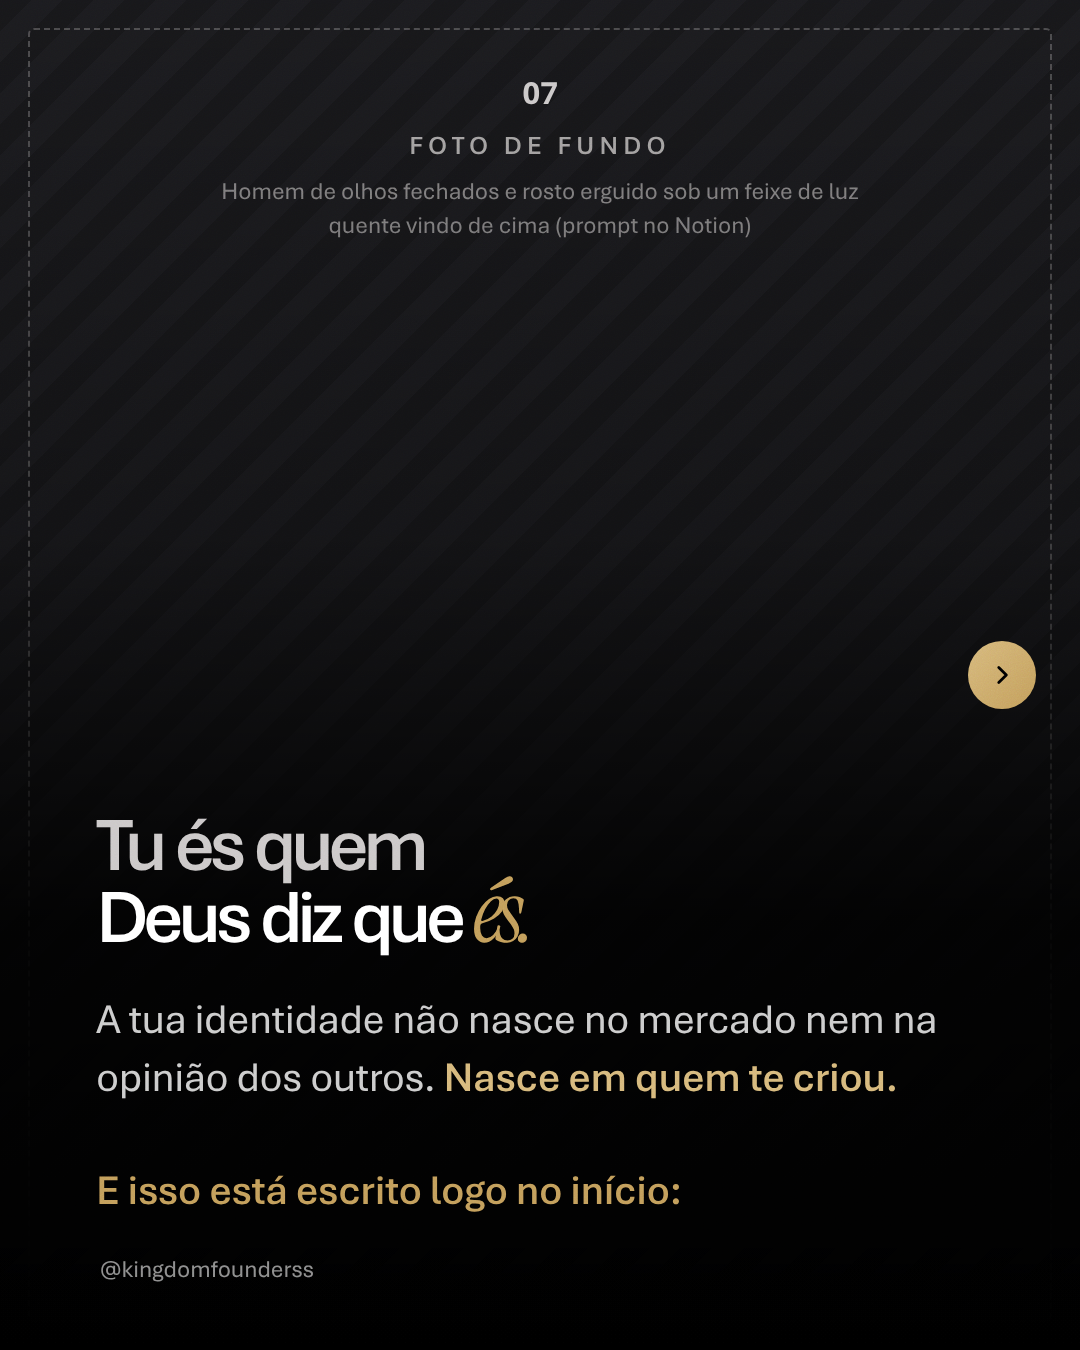
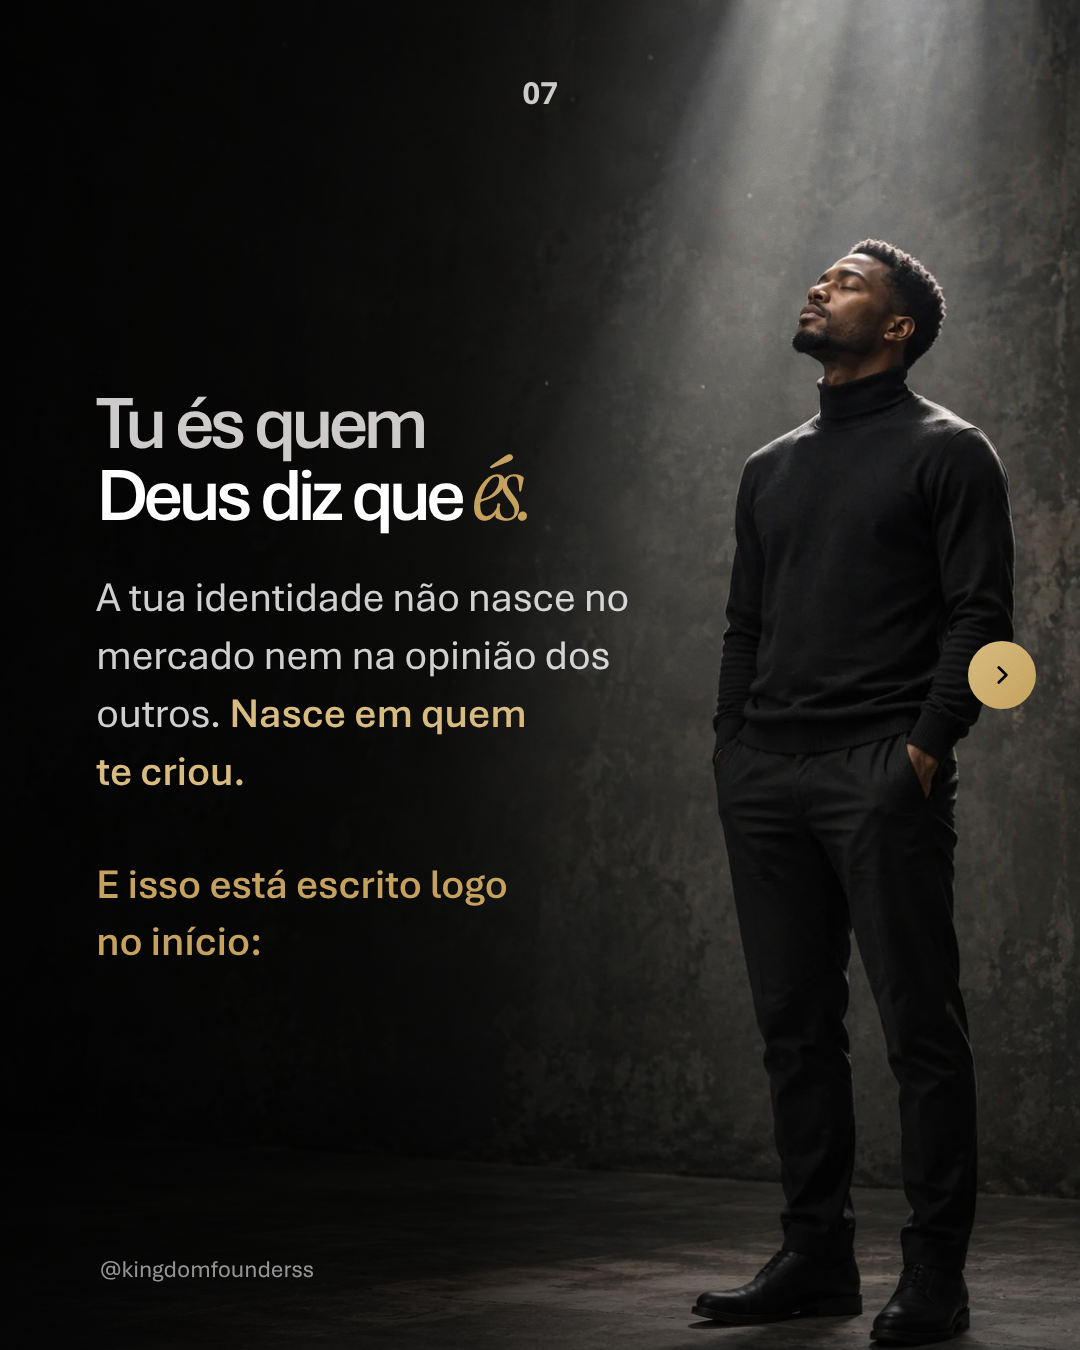
19/10: fotos do ChatGPT nos slides 04, 07 e 10
Claude-Session: https://claude.ai/code/session_01RgmbLLVHoJT5B4GNygU6zs

diff --git a/content/founders/semana-01/index.html b/content/founders/semana-01/index.html
@@ -184,7 +184,7 @@ body{ background:#2a2a2a; display:flex; flex-wrap:wrap; gap:40px; padding:40px; 
   <div class="glow"></div><div class="num">04</div>
   <div class="content">
     <div class="ttl" style="--ts:76px"><div class="t1">Tu não és</div><div>o que <span class="it">fazes.</span></div></div>
-    <div class="inset" style="margin-top:40px"><div class="ph" style="inset:0"><b>Foto</b><span>Empreendedor sozinho na loja fechada à noite, luz âmbar de um candeeiro (prompt no Notion, formato 3:2)</span></div></div>
+    <div class="inset" style="margin-top:40px"><img src="img/2026-10-19-s04-loja.jpg" alt="" style="object-position:72% 34%"></div>
     <p class="p">Quando alguém te pergunta quem és, a resposta costuma ser uma profissão: sou empresário, sou consultor, tenho uma loja. Mas isso é o que fazes. <b>Não é quem és.</b></p>
     <p class="bridge">E quando a identidade fica presa à atividade…</p>
   </div>
@@ -221,13 +221,13 @@ body{ background:#2a2a2a; display:flex; flex-wrap:wrap; gap:40px; padding:40px; 
 </section>
 
 <section class="post grain" data-file="2026-10-19-quem-sou-eu/07.png">
-  <div class="bgph"><div class="ph" style="inset:0;justify-content:flex-start;padding-top:130px"><b>Foto de fundo</b><span>Homem de olhos fechados e rosto erguido sob um feixe de luz quente vindo de cima (prompt no Notion)</span></div></div>
-  <div class="bgfade" style="background:linear-gradient(180deg,rgba(0,0,0,.15) 0%,rgba(0,0,0,.35) 40%,rgba(0,0,0,.92) 68%,#000 100%)"></div>
+  <div class="bgph"><img src="img/2026-10-19-s07-luz.jpg" alt="" style="object-position:70% 30%"></div>
+  <div class="bgfade" style="background:linear-gradient(90deg,rgba(0,0,0,.88) 0%,rgba(0,0,0,.62) 42%,rgba(0,0,0,0) 70%),linear-gradient(180deg,rgba(0,0,0,0) 70%,rgba(0,0,0,.6) 100%)"></div>
   <div class="num">07</div>
-  <div class="content" style="justify-content:flex-end">
+  <div class="content" style="right:430px">
     <div class="ttl" style="--ts:76px"><div class="t1">Tu és quem</div><div>Deus diz que <span class="it">és.</span></div></div>
-    <p class="p">A tua identidade não nasce no mercado nem na opinião dos outros. <b>Nasce em quem te criou.</b></p>
-    <p class="bridge">E isso está escrito logo no início:</p>
+    <p class="p">A tua identidade não nasce no mercado nem na opinião dos outros. <b>Nasce em quem te&nbsp;criou.</b></p>
+    <p class="bridge">E isso está escrito logo no&nbsp;início:</p>
   </div>
   <div class="next"><svg><use href="#chev"/></svg></div><div class="handle">@kingdomfounderss</div>
 </section>
@@ -258,7 +258,7 @@ body{ background:#2a2a2a; display:flex; flex-wrap:wrap; gap:40px; padding:40px; 
 </section>
 
 <section class="post grain" data-file="2026-10-19-quem-sou-eu/10.png">
-  <div class="bgph"><div class="ph" style="inset:0;justify-content:flex-start;padding-top:70px"><b>Foto de fundo</b><span>Corredor escuro com cinco portas, a primeira aberta com luz âmbar a sair (prompt no Notion)</span></div></div>
+  <div class="bgph"><img src="img/2026-10-19-s10-corredor.jpg" alt=""></div>
   <div class="bgfade" style="background:radial-gradient(70% 60% at 50% 50%,rgba(0,0,0,.9),rgba(0,0,0,.6))"></div>
   <div class="cta">
     <img class="logo" src="../../brand/founders/assets/kingdom-founders-simbolo.svg" alt="Kingdom Founders">
